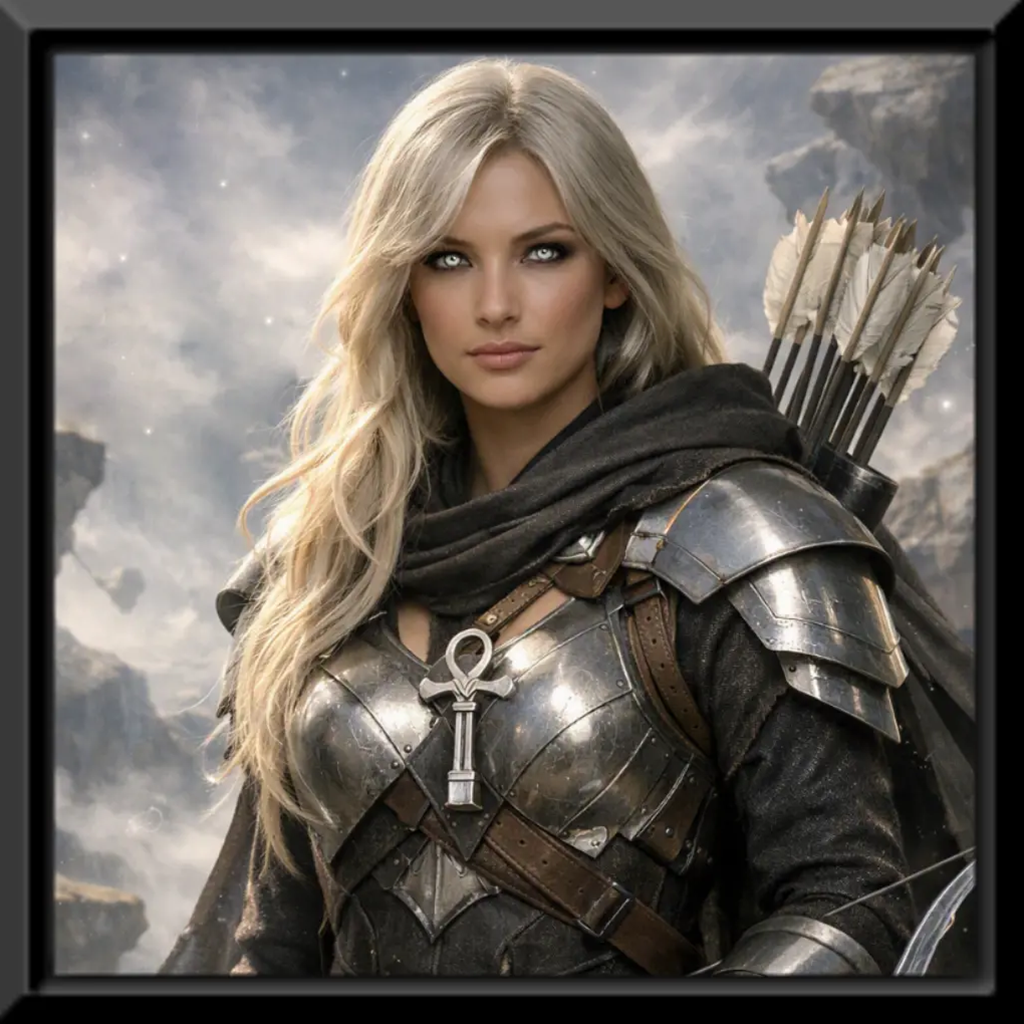
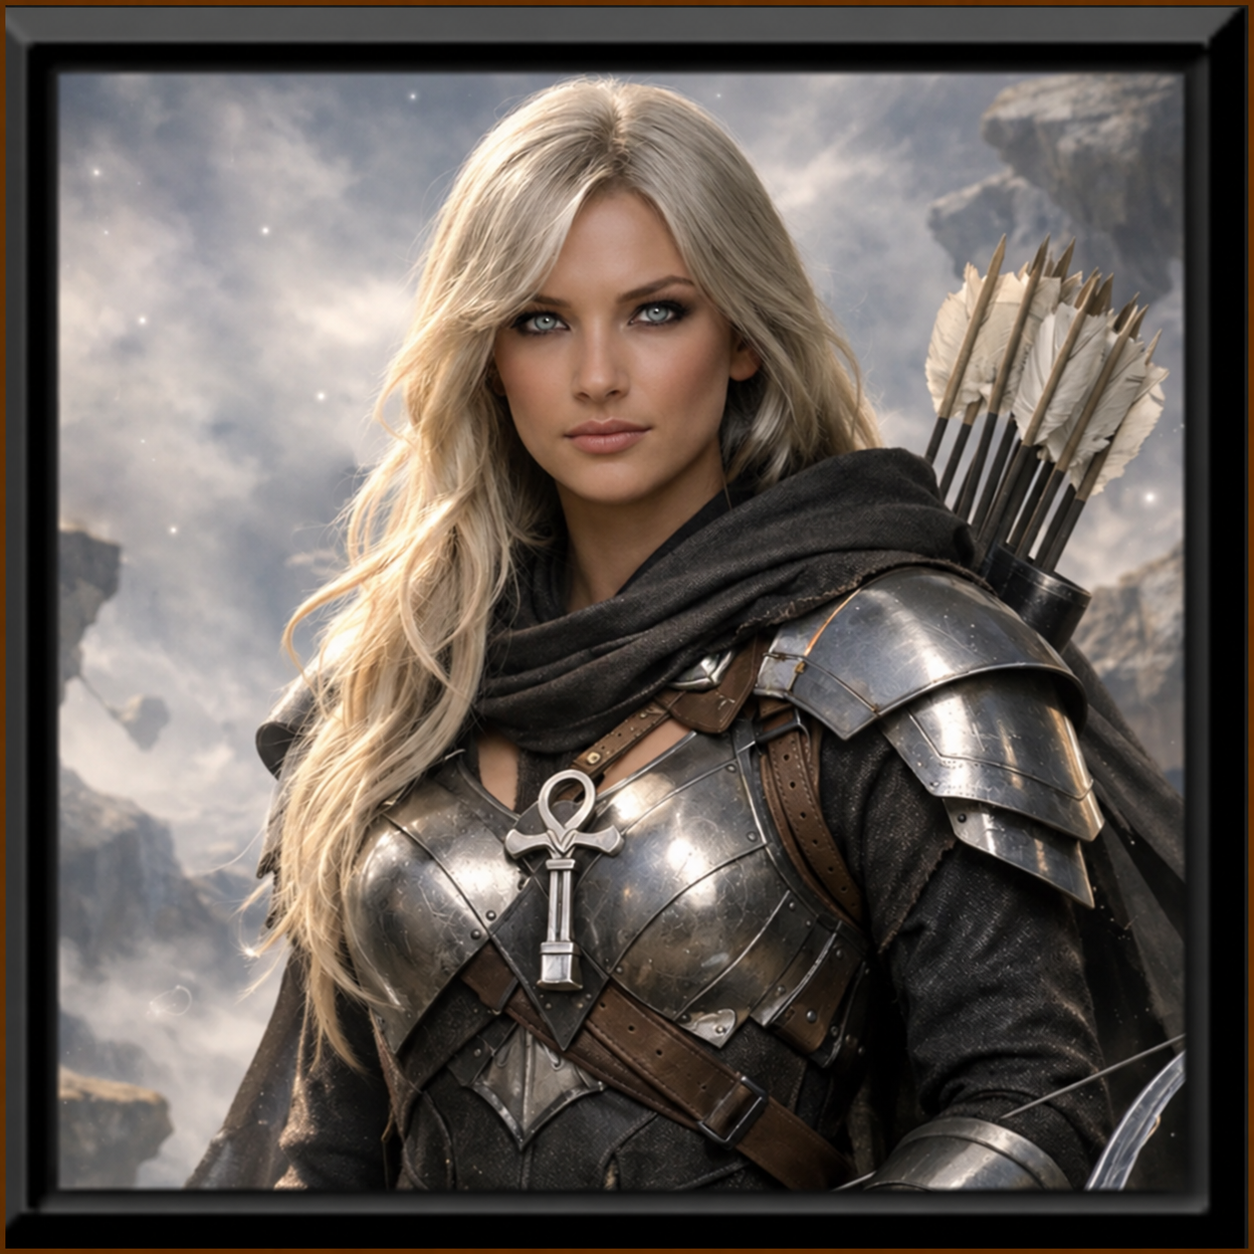
Update Tokaninaka hub and RCS portraits.
Hub door uses Tokaninaka Portrait.png; RCS portrait uses the new Token art.

diff --git a/On the Rise/index.html b/On the Rise/index.html
@@ -72,7 +72,7 @@
     </div>
 
     <a class="roster-card discovered roster-card-dorpond" href="../characters/tokaninaka-ccs.html" aria-label="Tokaninaka — open Rising Character Sheet">
-      <img src="../assets/images/characters/Tokaninaka%20Portrait%202.png" alt="">
+      <img src="../assets/images/characters/Tokaninaka%20Portrait.png" alt="">
       <div class="roster-name">Tokaninaka</div>
     </a>
 

diff --git a/characters/tokaninaka-ccs.html b/characters/tokaninaka-ccs.html
@@ -94,7 +94,7 @@
 
   <div class="hero">
     <div class="portrait-frame portrait-frame-dorpond">
-      <img src="../assets/images/characters/Tokaninaka%20Portrait%202.png" alt="Tokaninaka">
+      <img src="../assets/images/characters/Tokaninaka%20Token.png" alt="Tokaninaka">
     </div>
     <div class="nameplate">
       <div class="ccs-inspiration" data-ccs-inspiration data-character="tokaninaka">
